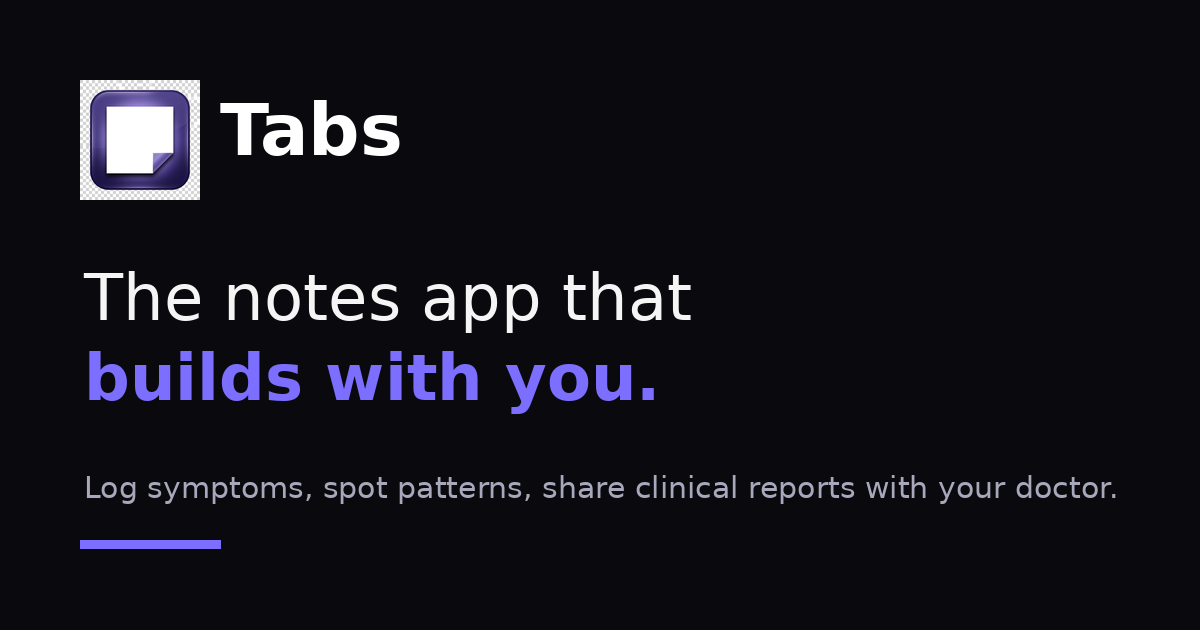
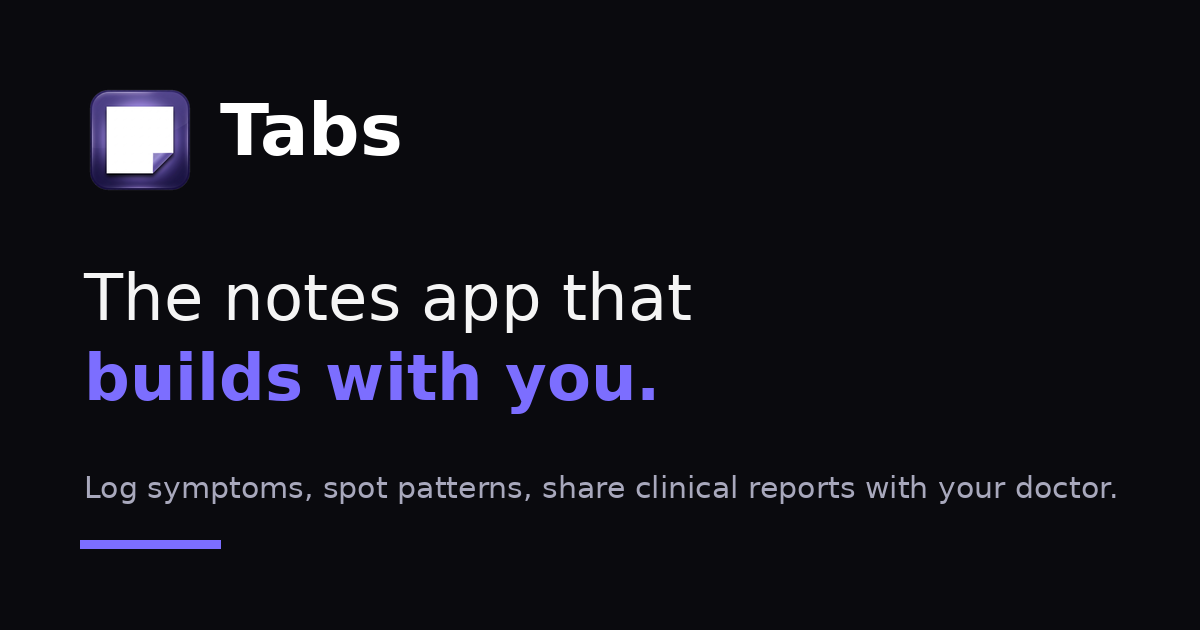
Website revision round: fix Mira review blockers (5) + nits
1. OG logo defect: rebuilt public/tabs_logo.png as true RGBA — flood-filled
   the baked white transparency-checkerboard to real alpha (corners alpha 0,
   tile opaque), regenerated og-image.png. Pixel-verified: logo corners now
   solid card (10,10,14), no checkerboard anywhere. Also fixes nav/footer
   logo corners which used the same asset.
2. Modal touch-scroll on mobile: touchmove preventDefault now scoped to the
   overlay itself (e.target === betaModal); the scrollable modal card scrolls.
3. Serif restraint: cut .serif-accent from differentiator strip (index.html)
   and learn-more H1. Remaining: hero H1, 2 final CTAs, 3 chapter kickers,
   3 diagram kickers — the two sanctioned slots only.
4. Glow discipline: removed .hero-bg .glow element + CSS + mousemove
   parallax JS. Exactly two glows remain (hero phone, CTA hover/focus).
5. learn-more claims: DELETED 'nutrition' from the Health Connect data-type
   list (app's actual 14 permissions in HealthConnectManager.kt include no
   NutritionRecord; privacy policy's mention is aspirational). KEPT the
   Android Keystore claim — verified in app code (NotelPreferences.kt uses
   AndroidKeyStore for local key encryption) and privacy.html:72.

Nits: modal close &times; -> #i-x SVG icon (both pages); disclaimer-band
line-height 1.6->1.5; triad strip -> --text-muted/500; feature 5-col
breakpoint 1024px->1280px; diagram SVG icons aria-hidden; slider dots
role=tab/tablist -> plain buttons with aria-pressed; removed redundant
[…]

Changed region(s): [[0.0617, 0.1206, 0.185, 0.3317]]

diff --git a/website/learn-more.html b/website/learn-more.html
@@ -46,6 +46,9 @@
         <g id="i-arrow" fill="none" stroke="currentColor" stroke-width="1.5" stroke-linecap="round" stroke-linejoin="round">
             <line x1="4" y1="12" x2="20" y2="12"/><path d="M14 6l6 6-6 6"/>
         </g>
+        <g id="i-x" fill="none" stroke="currentColor" stroke-width="1.5" stroke-linecap="round">
+            <line x1="6" y1="6" x2="18" y2="18"/><line x1="18" y1="6" x2="6" y2="18"/>
+        </g>
     </defs>
 </svg>
 
@@ -75,7 +78,7 @@
     <header class="page-hero">
         <div class="container">
             <span class="eyebrow">Learn more</span>
-            <h1>How Tabs <em class="serif-accent">works.</em></h1>
+            <h1>How Tabs works.</h1>
             <p class="lede">Log your health, spot your patterns, and share clear reports with your doctor.</p>
         </div>
     </header>
@@ -98,7 +101,7 @@
                 <!-- Node 1 -->
                 <g>
                     <rect x="60" y="8" width="440" height="148" rx="18" fill="#121218" stroke="rgba(255,255,255,0.10)"/>
-                    <g transform="translate(96,42)" color="#B9B2FF"><svg width="34" height="34" viewBox="0 0 24 24"><use href="#i-mic"/></svg></g>
+                    <g transform="translate(96,42)" color="#B9B2FF"><svg width="34" height="34" viewBox="0 0 24 24" aria-hidden="true"><use href="#i-mic"/></svg></g>
                     <text x="148" y="60" font-family="Newsreader, Georgia, serif" font-style="italic" font-size="17" fill="#B9B2FF">first, the easy part</text>
                     <text x="148" y="92" font-family="Outfit, sans-serif" font-weight="600" font-size="22" fill="#f5f5f5">You log</text>
                     <text x="96" y="120" font-family="Inter, sans-serif" font-size="15" fill="#A8A8BC">Symptoms, routines, biometrics —<tspan x="96" dy="1.4em">by voice or tap, in seconds.</tspan></text>
@@ -107,7 +110,7 @@
                 <!-- Node 2 -->
                 <g>
                     <rect x="60" y="194" width="440" height="148" rx="18" fill="#121218" stroke="rgba(255,255,255,0.10)"/>
-                    <g transform="translate(96,228)" color="#B9B2FF"><svg width="34" height="34" viewBox="0 0 24 24"><use href="#i-spark"/></svg></g>
+                    <g transform="translate(96,228)" color="#B9B2FF"><svg width="34" height="34" viewBox="0 0 24 24" aria-hidden="true"><use href="#i-spark"/></svg></g>
                     <text x="148" y="246" font-family="Newsreader, Georgia, serif" font-style="italic" font-size="17" fill="#B9B2FF">then, the quiet work</text>
                     <text x="148" y="278" font-family="Outfit, sans-serif" font-weight="600" font-size="22" fill="#f5f5f5">Tabs connects</text>
                     <text x="96" y="306" font-family="Inter, sans-serif" font-size="15" fill="#A8A8BC">Correlations across symptoms,<tspan x="96" dy="1.4em">biometrics, and environment.</tspan></text>
@@ -116,7 +119,7 @@
                 <!-- Node 3 -->
                 <g>
                     <rect x="60" y="380" width="440" height="148" rx="18" fill="#121218" stroke="rgba(255,255,255,0.10)"/>
-                    <g transform="translate(96,414)" color="#B9B2FF"><svg width="34" height="34" viewBox="0 0 24 24"><use href="#i-report"/></svg></g>
+                    <g transform="translate(96,414)" color="#B9B2FF"><svg width="34" height="34" viewBox="0 0 24 24" aria-hidden="true"><use href="#i-report"/></svg></g>
                     <text x="148" y="432" font-family="Newsreader, Georgia, serif" font-style="italic" font-size="17" fill="#B9B2FF">finally, the payoff</text>
                     <text x="148" y="464" font-family="Outfit, sans-serif" font-weight="600" font-size="22" fill="#f5f5f5">You get</text>
                     <text x="96" y="492" font-family="Inter, sans-serif" font-size="15" fill="#A8A8BC">AI insights you review, plus<tspan x="96" dy="1.4em">a clinical PDF for your doctor.</tspan></text>
@@ -140,7 +143,7 @@
                     <h3>What's collected</h3>
                     <ul>
                         <li><svg viewBox="0 0 24 24"><use href="#i-check"/></svg>Your logs, notes, and documents you choose to upload.</li>
-                        <li><svg viewBox="0 0 24 24"><use href="#i-check"/></svg>Health data from Google Health Connect — heart rate, sleep, activity, nutrition — only if you grant permission.</li>
+                        <li><svg viewBox="0 0 24 24"><use href="#i-check"/></svg>Health data from Google Health Connect — heart rate, sleep, activity — only if you grant permission.</li>
                         <li><svg viewBox="0 0 24 24"><use href="#i-check"/></svg>Location only to fetch weather context for your entries. We don't store your location history.</li>
                     </ul>
                 </article>
@@ -243,7 +246,7 @@
 
 <div class="modal-overlay" id="beta-modal" role="dialog" aria-modal="true" aria-labelledby="beta-title">
     <div class="modal-card">
-        <button class="modal-close" aria-label="Close">&times;</button>
+        <button class="modal-close" aria-label="Close"><svg viewBox="0 0 24 24" aria-hidden="true"><use href="#i-x"/></svg></button>
         <span class="beta-pill">BETA</span>
         <h2 id="beta-title">Join our Private Beta</h2>
         <p>Tabs is currently in <strong>private beta testing</strong>. If you have been added to our authorized tester list, you can access the build below.</p>

diff --git a/website/index.html b/website/index.html
@@ -90,6 +90,9 @@
         <g id="i-plus" fill="none" stroke="currentColor" stroke-width="1.5" stroke-linecap="round">
             <line x1="12" y1="5" x2="12" y2="19"/><line x1="5" y1="12" x2="19" y2="12"/>
         </g>
+        <g id="i-x" fill="none" stroke="currentColor" stroke-width="1.5" stroke-linecap="round">
+            <line x1="6" y1="6" x2="18" y2="18"/><line x1="18" y1="6" x2="6" y2="18"/>
+        </g>
         <g id="i-spark" fill="none" stroke="currentColor" stroke-width="1.5" stroke-linecap="round" stroke-linejoin="round">
             <path d="M12 3l1.9 5.6 5.6 1.9-5.6 1.9L12 18l-1.9-5.6L4.5 10.5l5.6-1.9z"/>
         </g>
@@ -166,17 +169,16 @@
             </div>
             <div class="slider-controls">
                 <button class="slider-arrow" id="slider-prev" aria-label="Previous screenshot"><svg viewBox="0 0 24 24"><use href="#i-chevl"/></svg></button>
-                <div class="slider-dots" role="tablist" aria-label="Choose screenshot">
-                    <button class="dot active" role="tab" aria-selected="true" aria-label="Screenshot 1"></button>
-                    <button class="dot" role="tab" aria-selected="false" aria-label="Screenshot 2"></button>
-                    <button class="dot" role="tab" aria-selected="false" aria-label="Screenshot 3"></button>
-                    <button class="dot" role="tab" aria-selected="false" aria-label="Screenshot 4"></button>
+                <div class="slider-dots" role="group" aria-label="Choose screenshot">
+                    <button class="dot active" aria-pressed="true" aria-label="Screenshot 1"></button>
+                    <button class="dot" aria-pressed="false" aria-label="Screenshot 2"></button>
+                    <button class="dot" aria-pressed="false" aria-label="Screenshot 3"></button>
+                    <button class="dot" aria-pressed="false" aria-label="Screenshot 4"></button>
                 </div>
                 <button class="slider-arrow" id="slider-next" aria-label="Next screenshot"><svg viewBox="0 0 24 24"><use href="#i-chevr"/></svg></button>
             </div>
         </div>
     </div>
-    <div class="hero-bg" aria-hidden="true"><div class="glow"></div></div>
 </header>
 
 <!-- ============ Triad strip ============ -->
@@ -194,7 +196,7 @@
 <section class="diff" aria-label="What makes Tabs different">
     <div class="container">
         <span class="eyebrow reveal">Not just a notes app</span>
-        <p class="big reveal" data-delay="1">A notes app stores your words. <span class="serif-accent">Tabs finds what they mean.</span></p>
+        <p class="big reveal" data-delay="1">A notes app stores your words. Tabs finds what they mean.</p>
         <p class="sub reveal" data-delay="2">Symptoms, routines, biometrics, and environment — logged in seconds, connected by AI, and summarized into reports your doctor will actually read.</p>
     </div>
 </section>
@@ -494,7 +496,7 @@
 <!-- ============ Beta modal ============ -->
 <div class="modal-overlay" id="beta-modal" role="dialog" aria-modal="true" aria-labelledby="beta-title">
     <div class="modal-card">
-        <button class="modal-close" aria-label="Close">&times;</button>
+        <button class="modal-close" aria-label="Close"><svg viewBox="0 0 24 24" aria-hidden="true"><use href="#i-x"/></svg></button>
         <span class="beta-pill">BETA</span>
         <h2 id="beta-title">Join our Private Beta</h2>
         <p>Tabs is currently in <strong>private beta testing</strong>. If you have been added to our authorized tester list, you can access the build below.</p>

diff --git a/website/style.css b/website/style.css
@@ -343,15 +343,6 @@ section { scroll-margin-top: 96px; }
 .slider-dots .dot:hover::before { background: rgba(255, 255, 255, 0.45); }
 .slider-dots .dot.active::before { background: var(--accent); transform: scale(1.3); }
 
-/* ambient hero background */
-.hero-bg { position: absolute; inset: 0; pointer-events: none; z-index: -1; overflow: hidden; }
-.hero-bg .glow {
-    position: absolute; top: -20%; left: 50%; transform: translateX(-50%);
-    width: 900px; height: 600px;
-    background: radial-gradient(ellipse at center, rgba(124, 110, 255, 0.16) 0%, transparent 65%);
-    filter: blur(10px);
-}
-
 /* ---- Triad strip (Flo steal) ---- */
 .triad { border-top: 1px solid var(--border); border-bottom: 1px solid var(--border); background: rgba(255,255,255,0.015); }
 .triad-list {
@@ -362,7 +353,7 @@ section { scroll-margin-top: 96px; }
 }
 .triad-list li {
     font-family: var(--font-display);
-    font-size: 1.02rem; font-weight: 600; letter-spacing: 0.01em; color: var(--text);
+    font-size: 1.02rem; font-weight: 500; letter-spacing: 0.01em; color: var(--text-muted);
     display: flex; align-items: center; justify-content: center; gap: 0.6rem;
 }
 .triad-list .triad-dot { width: 6px; height: 6px; border-radius: 50%; background: var(--accent); flex: none; }
@@ -422,7 +413,7 @@ section { scroll-margin-top: 96px; }
 /* ---- Feature strip ---- */
 .feature-strip { display: grid; gap: 1rem; }
 @media (min-width: 640px) { .feature-strip { grid-template-columns: repeat(2, 1fr); } }
-@media (min-width: 1024px) { .feature-strip { grid-template-columns: repeat(5, 1fr); } }
+@media (min-width: 1280px) { .feature-strip { grid-template-columns: repeat(5, 1fr); } }
 .feature-card {
     background: var(--surface);
     border: 1px solid var(--border);
@@ -517,7 +508,7 @@ section { scroll-margin-top: 96px; }
 /* ---- Disclaimer footnote band (legal furniture) ---- */
 .disclaimer-band { border-top: 1px solid var(--border); padding: 2.25rem 0; }
 .disclaimer-band p {
-    font-size: 0.8rem; line-height: 1.6; color: var(--text-muted); opacity: 0.8;
+    font-size: 0.8rem; line-height: 1.5; color: var(--text-muted); opacity: 0.8;
     max-width: 78ch; margin: 0 auto; text-align: center;
 }
 
@@ -607,6 +598,7 @@ section { scroll-margin-top: 96px; }
     color: var(--text-muted); font-size: 1.6rem; line-height: 1;
 }
 .modal-close:hover { color: var(--text); background: rgba(255,255,255,0.06); }
+.modal-close svg { width: 20px; height: 20px; }
 .modal-card .beta-pill {
     display: inline-block; font-size: 0.72rem; font-weight: 700; letter-spacing: 0.1em;
     color: var(--accent-ink); border: 1px solid var(--accent); border-radius: 999px;
@@ -672,7 +664,6 @@ section { scroll-margin-top: 96px; }
 /* ---- Small-screen refinements ---- */
 @media (max-width: 480px) {
     .hero-ctas .btn { flex: 1 1 100%; }
-    .chapter-num { font-size: 4.5rem; }
 }
 
 /* ==========================================================================

diff --git a/website/main.ts b/website/main.ts
@@ -66,7 +66,12 @@ document.addEventListener('DOMContentLoaded', () => {
     betaModal?.addEventListener('click', e => {
         if (e.target === betaModal) setModal(false);
     });
-    betaModal?.addEventListener('touchmove', e => e.preventDefault(), { passive: false });
+    betaModal?.addEventListener('touchmove', e => {
+        // Lock background scroll only: touchmoves inside the scrollable
+        // modal card must NOT be blocked, or short screens can't scroll
+        // the card's content (e.g. the Play Store buttons).
+        if (e.target === betaModal) e.preventDefault();
+    }, { passive: false });
     document.addEventListener('keydown', e => {
         if (e.key === 'Escape' && betaModal?.classList.contains('active')) setModal(false);
     });
@@ -81,11 +86,11 @@ document.addEventListener('DOMContentLoaded', () => {
         const next = (index + slides.length) % slides.length;
         slides[current]?.classList.remove('active');
         dots[current]?.classList.remove('active');
-        dots[current]?.setAttribute('aria-selected', 'false');
+        dots[current]?.setAttribute('aria-pressed', 'false');
         current = next;
         slides[current]?.classList.add('active');
         dots[current]?.classList.add('active');
-        dots[current]?.setAttribute('aria-selected', 'true');
+        dots[current]?.setAttribute('aria-pressed', 'true');
     };
 
     if (slides.length > 0) {
@@ -170,16 +175,4 @@ document.addEventListener('DOMContentLoaded', () => {
         }, { threshold: 0.15 }).observe(finalCta);
     }
     window.addEventListener('resize', () => updateSticky(false), { passive: true });
-
-    // --- Subtle hero glow parallax (skip under reduced motion) ---
-    if (!prefersReducedMotion) {
-        window.addEventListener('mousemove', e => {
-            const glow = document.querySelector('.hero-bg .glow') as HTMLElement | null;
-            if (glow) {
-                const x = e.clientX / window.innerWidth;
-                const y = e.clientY / window.innerHeight;
-                glow.style.transform = `translate(calc(-50% + ${x * 50}px), ${y * 50}px)`;
-            }
-        }, { passive: true });
-    }
 });
